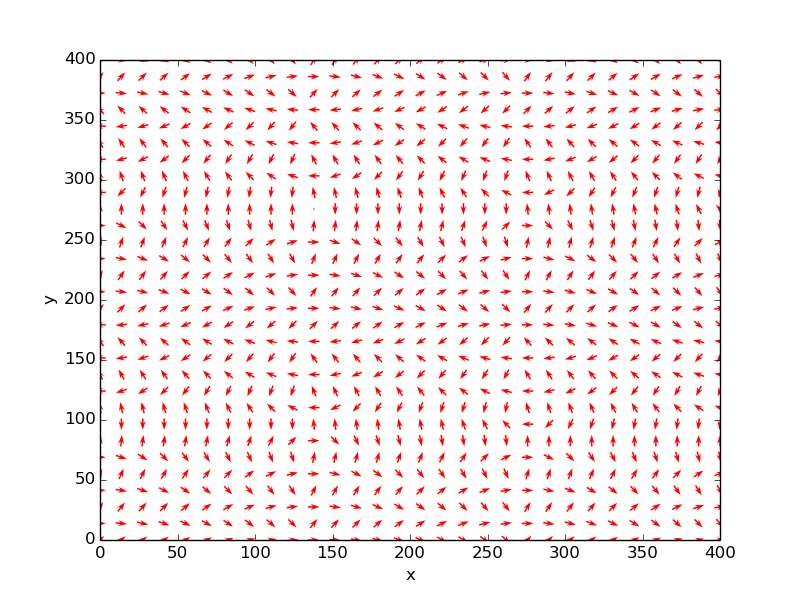
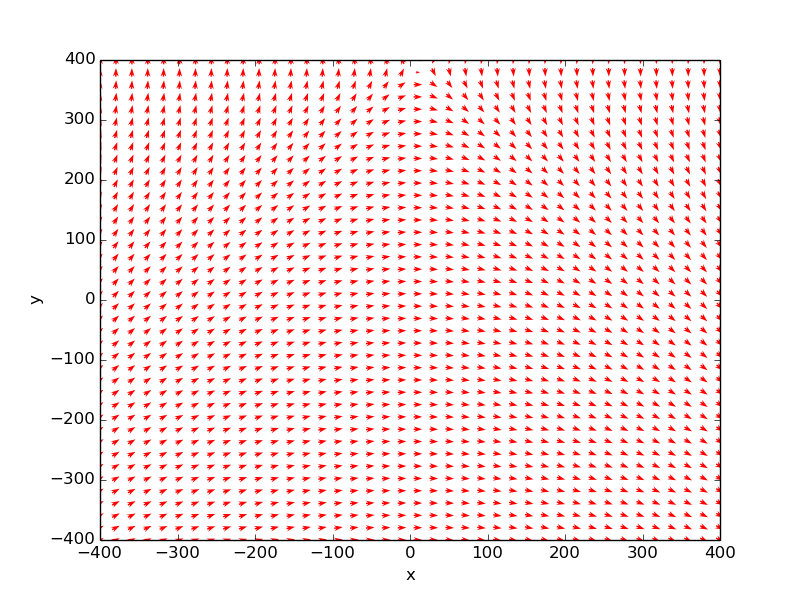
working tank!

Changed region(s): [[0.0312, 0.09, 0.9062, 0.93]]

diff --git a/agent0.py b/agent0.py
@@ -42,7 +42,10 @@ class Agent(object):
         self.dy = 0
         self.curSpeed = 0
         self.curAngVel = 0
+        self.prevAngVel = 0
+        self.deltaT = 1000
         self.curAngle = 0
+        self.visualizationRun = True
         for base in bases:
         	if base.color == self.constants['team']:
         		self.mybase = base
@@ -62,41 +65,20 @@ class Agent(object):
         # Reset my set of commands (we don't want to run old commands)
         self.commands = []
 
-        # print self.constants
-        # self.get_flag(mytanks[0], flags[3])
         self.currentTank = mytanks[0]
-        self.flag = flags[0]
+        self.flag = flags[2]
         
         self.attractiveField()
-        print "we ran attractiveField"
-        # self.repulsiveFields()
-        # print "we ran repulsiveFields"
-        # self.tangentialFields()
-        # print "we ran tangentialFields"
-        self.applyDelta()
-        print "we ran applyDelta"
-        command = Command(0, self.curSpeed, self.curAngVel, False)
+        self.repulsiveFields()
+        self.tangentialFields()
+        self.controller()
+        command = Command(0, 1, self.curAngVel, True)
         self.commands.append(command)
-        # Decide what to do with each of my tanks
-        # for bot in mytanks:
-            # self.attack_enemies(bot)
-
-        # Send the commands to the server
 
         results = self.bzrc.do_commands(self.commands)
-        self.visualization()
-
-    def get_flag(self, bot, flag):
-    	'''Go get the flag without running into anything'''
-    	if bot.flag == "-":
-    		print "here"
-    		self.move_to_position(bot, flag.x, flag.y)
-    	else:
-    		self.return_to_base(bot)
-		# if flag.color == self.mytanks[0].color:
-		# 	continue
-		# if flag.poss_color == self.mytanks[0].color:
-		# 	continue
+        if self.visualizationRun:
+            self.visualization()
+            self.visualizationRun = False
 
     def getDistance(self, point1, point2):
         return math.sqrt(math.pow(point2[0] - point1[0], 2) + math.pow(point1[1] - point2[1], 2))   
@@ -105,8 +87,6 @@ class Agent(object):
         length_sqd = (math.pow(end[0] - start[0], 2) + math.pow(start[1] - end[1], 2))
         
         t = ((point[0] - start[0]) * (end[0] - start[0]) + (point[1] - start[1]) * (end[1] - start[1])) / length_sqd
-        # if t < 0: return self.getDistance(point, start)
-        # if t > 1: return self.getDistance(point, end)
         if t < 0 or t > 1: return 9001
         
         return self.getDistance(point, [start[0] + t * (end[0] - start[0]), start[1] + t * (end[1] - start[1])])     
@@ -115,13 +95,13 @@ class Agent(object):
         if x != -1 and y != -1:
             self.currentTank.x = x
             self.currentTank.y = y
-            self.goalPos = self.flag
-
-        print "x=", self.currentTank.x, " y=", self.currentTank.y
-        # self.distance = math.sqrt((self.goalPos[0] - self.currentTank.x) ** 2 + (self.currentTank.y - self.goalPos[1]) ** 2)
-        self.distance = math.sqrt((200 - self.currentTank.x) ** 2 + (self.currentTank.y - 200) ** 2)
-        self.angle = math.atan2(200 - self.currentTank.y, 200 - self.currentTank.x)
-        # normalize angle?
+        goalx = self.flag.x
+        goaly = self.flag.y
+        if self.currentTank.flag != "-":
+            goalx = self.mybase.corner1_x
+            goaly = self.mybase.corner1_y
+        self.distance = math.sqrt((goalx - self.currentTank.x) ** 2 + (self.currentTank.y - goaly) ** 2)
+        self.angle = math.atan2(goaly - self.currentTank.y, goalx - self.currentTank.x)
         spread = 10  # not sure what this should be
         alpha = 10  # not sure what this should be
         
@@ -135,19 +115,15 @@ class Agent(object):
             self.dx = alpha * spread * math.cos(self.angle)
             self.dy = alpha * spread * math.sin(self.angle)
         
-        # print 'dx: ', self.dx
-        # print 'dy: ', self.dy    
-
     def attractiveVisualizationField(self, x, y):
         if x != -1 and y != -1:
             self.goalPos = self.flag
 
         # print "x:", self.goalPos.x, "y:", self.goalPos.y, ":", self.goalPos.color
-        self.goalPos.x = 200
-        self.goalPos.y = 200
-        self.distance = math.sqrt((self.goalPos.x - x) ** 2 + (y - self.goalPos.y) ** 2)
-        self.angle = math.atan2(self.goalPos.y - y, self.goalPos.x - x)
-        # normalize angle?
+        goalx = self.flag.x
+        goaly = self.flag.y
+        self.distance = math.sqrt((goalx - x) ** 2 + (y - goaly) ** 2)
+        self.angle = math.atan2(goaly - y, goalx - x)
         spread = 10  # not sure what this should be
         alpha = 10  # not sure what this should be
         
@@ -161,9 +137,6 @@ class Agent(object):
             self.dx = alpha * spread * math.cos(self.angle)
             self.dy = alpha * spread * math.sin(self.angle)
         
-        # print 'dx: ', self.dx
-        # print 'dy: ', self.dy    
-
     def repulsiveFields(self, x=-1, y=-1):
         if x != -1 and y != -1:
             self.currentTank.x = x
@@ -172,7 +145,7 @@ class Agent(object):
         spread = 10;
         beta = 20;
         
-        if self.currentTank.flag != '-':  # they should get out of HIS way
+        if self.currentTank.flag != '-': 
             return
         
         for tank in self.mytanks:
@@ -181,7 +154,6 @@ class Agent(object):
             
             distance = math.sqrt(math.pow(tank.x - self.currentTank.x, 2) + math.pow(self.currentTank.y - tank.y, 2))
             angle = self.normalize_angle(math.atan2(tank.y - self.currentTank.y, tank.x - self.currentTank.x))
-            # normalize angle?
             
             if distance < radius:
                 doX = math.copysign(1, math.cos(angle)) * -9001
@@ -189,7 +161,7 @@ class Agent(object):
             elif radius <= distance and distance <= (spread + radius):
                 doX = -beta * (spread + radius - distance) * math.cos(angle)
                 doY = -beta * (spread + radius - distance) * math.sin(angle)    
-            else:  # distance > spread + radius
+            else: 
                 doX = 0;
                 doY = 0;
                 
@@ -204,9 +176,7 @@ class Agent(object):
         spread = 10;
         beta2 = 100;
         for obstacle in self.obstacles:
-            # i= 0
             for i in range(0, 4):
-                # print 'obstacle[',i,']: ', obstacle[i]
                 start = obstacle[i]
                 if i == 3: end = obstacle[0]
                 else: end = obstacle[i + 1]
@@ -214,33 +184,23 @@ class Agent(object):
                 point = [self.currentTank.x, self.currentTank.y]
             
                 distance = self.distanceToLine(start, end, point)
-                # angle = self.normalize_angle(math.atan2(end[1] - start[1], end[0] - start[0]))  # - math.pi/2 ?
                 angle = (math.atan2(end[0] - start[0], -(end[1] - start[1])) ) - math.pi / 2
-                # normalize?
             
                 if distance < radius:
-                    print "It's over 9000! Tangential angle: ", angle
                     
                     doX = math.cos(angle) * 9001
                     doY = math.sin(angle) * 9001
                 
                 elif radius <= distance and distance <= (spread + radius):
-                    print "It's within the spread! Tangential angle: ", angle
                     doX = beta2 * (spread + radius - distance) * math.cos(angle)
                     doY = beta2 * (spread + radius - distance) * math.sin(angle)    
-                else:  # distance > spread + radius
+                else:  
                     doX = 0;
                     doY = 0;
                 
                 self.dx = self.dx + doX
                 self.dy = self.dy + doY   
-
                  
-		
-    def return_to_base(self, bot):
-    	'''Return to base!!'''
-    	self.move_to_position(bot, self.mybase.corner1_x, self.mybase.corner1_y)
-
     def attack_enemies(self, bot):
         '''Find the closest enemy and chase it, shooting as you go'''
         best_enemy = None
@@ -277,14 +237,21 @@ class Agent(object):
     def visualization(self):
         '''pick every tenth point to build a potential field'''
         
-        MatrixX = [[0 for x in range(20)] for x in range(20)] 
-        MatrixY = [[0 for x in range(20)] for x in range(20)]
+        # generate grid
+        x=np.linspace(-400, 400, 40)
+        y=np.linspace(-400, 400, 40)
+        x, y=np.meshgrid(x, y)
+        # calculate vector field
+
+        MatrixX = np.zeros((x.shape))
+        MatrixY = np.zeros((y.shape))
+
 
         i = 0;
-        for x in xrange(0, 399,20):
+        for a in xrange(-400, 400,20):
             j = 0;
-            for y in xrange(0, 399,20):
-                self.attractiveVisualizationField(x, y)
+            for b in xrange(-400, 400,20):
+                self.attractiveVisualizationField(a, b)
                 MatrixX[i][j] = self.dx
                 MatrixY[i][j] = self.dy
                 j = j+1
@@ -293,42 +260,26 @@ class Agent(object):
         fig = plt.figure()
         ax = fig.add_subplot(111)
  
-        # generate grid
-        x=np.linspace(0, 400, 30)
-        y=np.linspace(0, 400, 30)
-        x, y=np.meshgrid(x, y)
-        # calculate vector field
+        
 
         # plot vecor field
         ax.quiver(x, y, MatrixX, MatrixY, pivot='middle', color='r', headwidth=4, headlength=6)
         ax.set_xlabel('x')
         ax.set_ylabel('y')
-        # plt.show()
         plt.savefig('visualization_quiver_demo.png')
 
-    def applyDelta(self):
-        threshold = .5
-        # set up speed and angvel based on delta
-        self.curSpeed = math.sqrt(math.pow(self.dx, 2) + math.pow(self.dy, 2)) / 100
-        angle = math.atan2(self.dy, self.dx)  # angle we want to face
-        curAngle = self.currentTank.angle  # angle we are currently facing
-        # print 'current speed', self.curSpeed
-        # print 'target angle: ', angle
-        # print 'current angle: ', curAngle
-        print 'dx: ', self.dx
-        print 'dy: ', self.dy
+    def controller(self):
+        angle = math.atan2(self.dy, self.dx)  
+        curAngle = self.currentTank.angle  
         
+        Kp = 3;
+        Kd = 2;
         angleDif = self.normalize_angle(angle - curAngle)
-        # angleDif= math.fabs(curAngle - angle) #does this need to be normalized?
-        # signedAngleDif= angle - curAngle
-        # print 'Angle difference: ', angleDif
-        if angleDif < threshold and angleDif > -threshold:  # this is a shot in the dark. Tuning needed
-            # self.curAngVel= signedAngleDif
-            self.curAngVel = angleDif * 2
-        else:
-            # self.curAngVel= math.copysign(1, signedAngleDif) #should come out to 1 or -1  
-            self.curAngVel = math.copysign(1, angleDif)
-        # print 'angvel: ', self.curAngVel
+
+        pController = (Kp * angleDif)
+        dController = (Kd * (angleDif - self.prevAngVel)/self.deltaT)
+        self.curAngVel =  pController+dController
+        self.prevAngVel = angleDif
 
 def main():
     # Process CLI arguments.
